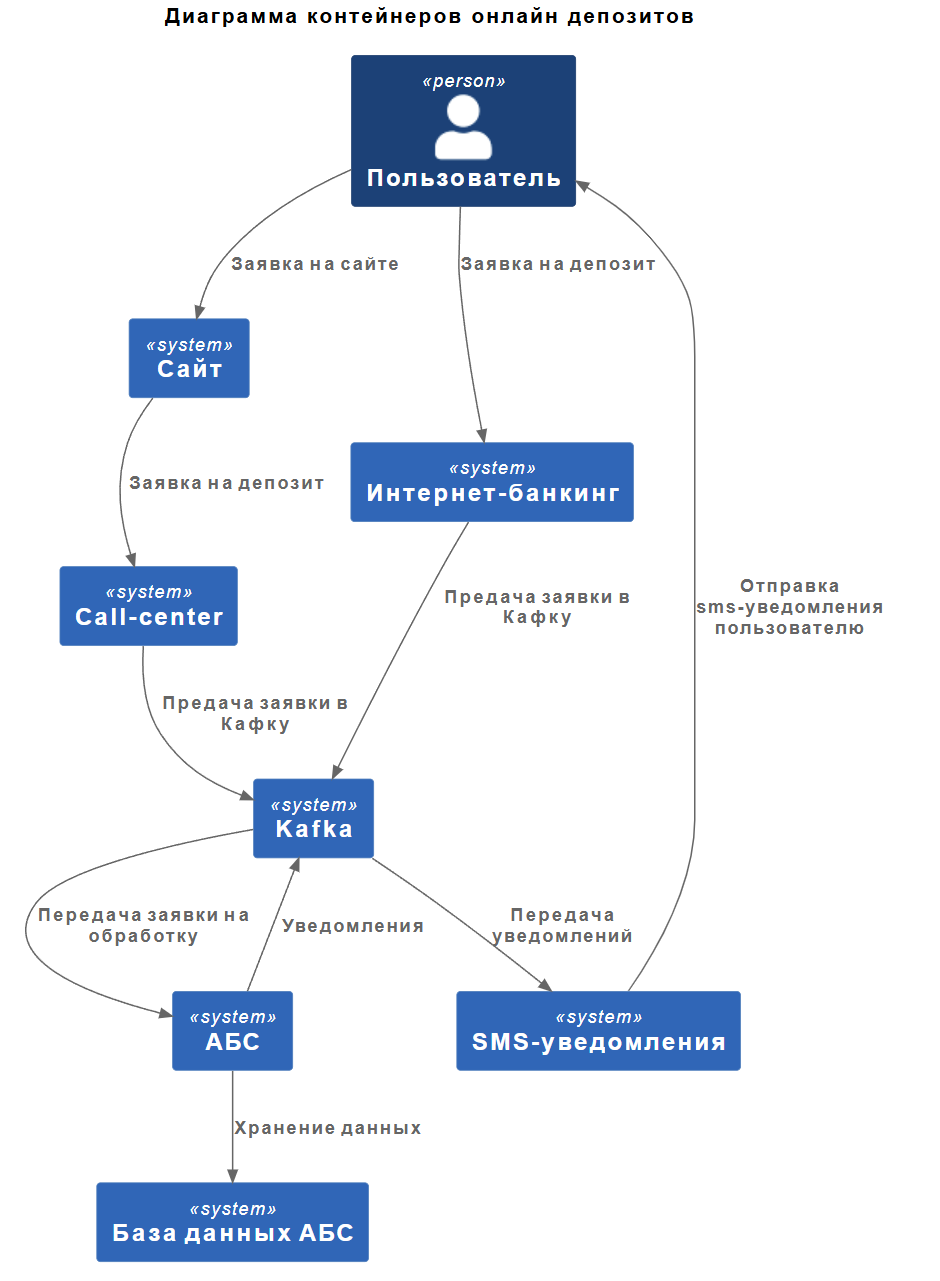
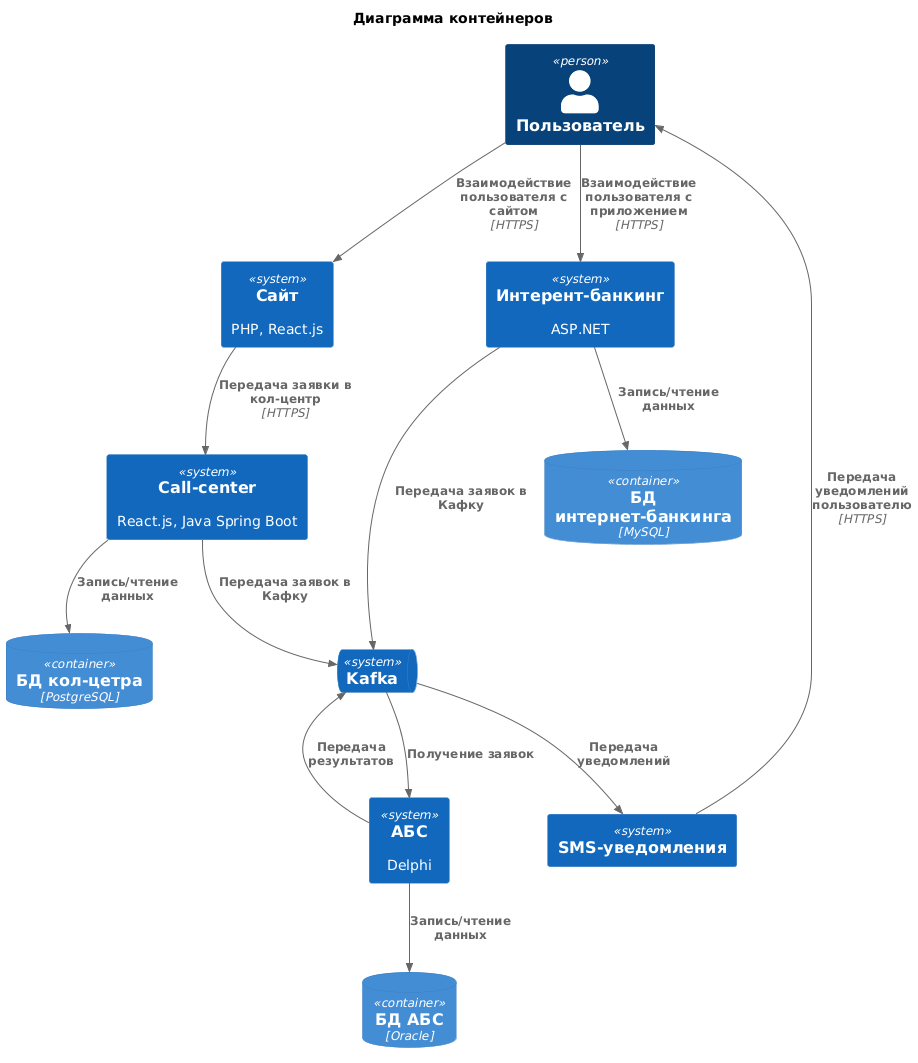
fixes

Changed region(s): [[0.0, 0.0, 1.0, 0.9934], [0.3965, 0.4967, 0.427, 0.5278]]

diff --git a/Task2/FURPS+_таблица_.md b/Task2/FURPS+_таблица_.md
@@ -1,14 +1,28 @@
-| Код | Требования                                                                                          | Комментарий                                                                                                              |
-| --- | --------------------------------------------------------------------------------------------------- | ------------------------------------------------------------------------------------------------------------------------ |
-| F   | Реализация функционала подачи заявки на депозит в интернет-банке и на сайте                         | Необходимо разработать интерфейс для выбора депозитного продукта, ввода необходимых данных и отправки заявки.            |
-|     | Интеграция с АБС для обработки заявок на открытие депозитов                                         | Требуется обеспечить передачу данных о заявках из интернет-банка и сайта в АБС для их обработки менеджерами бэк-офиса.   |
-|     | Реализация отправки СМС-уведомлений клиентам после подтверждения размера ставки и открытия депозита | Необходимо интегрировать функционал отправки СМС с существующими системами банка.                                        |
-| U   | Обеспечение удобства использования интерфейса для клиентов                                          | Интерфейс должен быть интуитивно понятным, с чёткими инструкциями и подсказками для клиентов.                            |
-|     | Соблюдение системы дизайна, принятой в компании                                                     | Цвета, шрифты и брендированные элементы должны соответствовать корпоративному стилю банка.                               |
-| R   | Обеспечение надёжности работы систем при обработке заявок на депозиты                               | Системы должны быть устойчивы к сбоям и обеспечивать сохранность данных.                                                 |
-|     | Реализация механизма шифрования данных при передаче между системами                                 | Необходимо защитить чувствительную информацию, передаваемую между сайтом, интернет-банком и АБС.                         |
-| P   | Обеспечение быстрого отклика по всем операциям                                                      | Время загрузки данных и обработки заявок должно быть минимальным, чтобы обеспечить удобство использования.               |
-|     | Оптимизация работы с базами данных для снижения нагрузки на АБС                                     | Необходимо минимизировать количество запросов к базе данных АБС для предотвращения перегрузки.                           |
-| S   | Разработка документации для дальнейшего расширения системы                                          | Документация должна описывать архитектуру системы, интерфейсы взаимодействия между компонентами и другие важные аспекты. |
-| +R  | Использование существующих технологий и платформ разработки                                         | Новые решения должны быть совместимы с уже используемыми технологиями, такими как MS SQL, Oracle и Kafka.                |
-|     | Предусмотрение возможности горизонтального масштабирования систем                                   | Системы должны поддерживать распределение нагрузки между серверами и ЦОД для обеспечения высокой доступности.            |
+| Код | Требования                                                                                                          | Комментарий                                                                                                              |
+| --- | ------------------------------------------------------------------------------------------------------------------- | ------------------------------------------------------------------------------------------------------------------------ |
+| F   | Реализация функционала подачи заявки на депозит в интернет-банке и на сайте                                         | Необходимо разработать интерфейс для выбора депозитного продукта, ввода необходимых данных и отправки заявки.            |
+|     | Интеграция с АБС для обработки заявок на открытие депозитов                                                         | Требуется обеспечить передачу данных о заявках из интернет-банка и сайта в АБС для их обработки менеджерами бэк-офиса.   |
+|     | Реализация отправки СМС-уведомлений клиентам после подтверждения размера ставки и открытия депозита                 | Необходимо интегрировать функционал отправки СМС с существующими системами банка.                                        |
+|     | На сайте клиент видит доступный список депозитов с актуальными ставками                                             | Требуется разработать механизм передачи на сайт актуальных данных по депозитам со ставками                               |
+|     | Сотрудник колл-центра должен обрабатывать заявки с сайта в системе колл-центра и отправлять их далее в АБС          | Разработать АПИ для получения заявок сострудниками кол-центра                                                            |
+|     | Менеджер по депозитным процессам обрабатывает заявки в бек-офисе, подтверждая условия депозита в АБС банка          | Разработаь АПИ для взаимодействия с АБС                                                                                  |
+|     | Сотрудник отделения может подать заявку напрямую в АБС, если клиент сразу придет в отделение, чтобы открыть депозит | Разработать интерфейс и АПИ для подачи заявки напрямую в АБС                                                             |
+| U   | Обеспечение удобства использования интерфейса для клиентов                                                          | Интерфейс должен быть интуитивно понятным, с чёткими инструкциями и подсказками для клиентов.                            |
+|     | Соблюдение системы дизайна, принятой в компании                                                                     | Цвета, шрифты и брендированные элементы должны соответствовать корпоративному стилю банка.                               |
+|     | Отклик интерфейса должен занимать миллисекунды                                                                      |                                                                                                                          |
+| R   | Обеспечение надёжности работы систем при обработке заявок на депозиты                                               | Системы должны быть устойчивы к сбоям и обеспечивать сохранность данных.                                                 |
+|     | Реализация механизма шифрования данных при передаче между системами                                                 | Необходимо защитить чувствительную информацию, передаваемую между сайтом, интернет-банком и АБС.                         |
+|     | Работа в режиме 24/7                                                                                                |                                                                                                                          |
+|     | Отклик в 99,9% случаев                                                                                              |                                                                                                                          |
+|     | Возможность переключения на резервный ЦОД                                                                           |                                                                                                                          |
+| P   | Обеспечение быстрого отклика по всем операциям                                                                      | Время загрузки данных и обработки заявок должно быть минимальным, чтобы обеспечить удобство использования.               |
+|     | Оптимизация работы с базами данных для снижения нагрузки на АБС                                                     | Необходимо минимизировать количество запросов к базе данных АБС для предотвращения перегрузки.                           |
+|     | горизонтальное масштабирование на 2 ЦОД                                                                             |                                                                                                                          |
+|     | Время отклика сервисов не более 1000 мс                                                                             |                                                                                                                          |
+| S   | Разработка документации для дальнейшего расширения системы                                                          | Документация должна описывать архитектуру системы, интерфейсы взаимодействия между компонентами и другие важные аспекты. |
+| +R  | Использование существующих технологий и платформ разработки                                                         | Новые решения должны быть совместимы с уже используемыми технологиями, такими как MS SQL, Oracle и Kafka.                |
+|     | Предусмотрение возможности горизонтального масштабирования систем                                                   | Системы должны поддерживать распределение нагрузки между серверами и ЦОД для обеспечения высокой доступности.            |
+|     | Не нужно нагружать базу АБС данными, которые ей не нужны в данный момент                                            |                                                                                                                          |
+|     | Не дорабатывать функционал подрядчика в интернет-банке                                                              |                                                                                                                          |
+|     | АБС поддерживает только вертикальное масштабирование                                                                |                                                                                                                          |
+|     | Следует избегать прямого обмена данными между онлайн-банком и АБС                                                   |                                                                                                                          |
